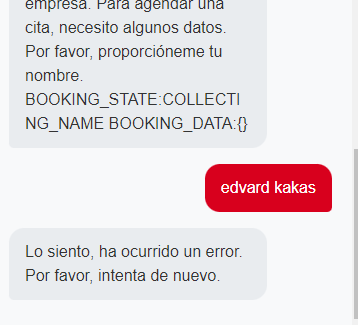
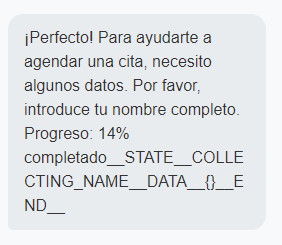
Agent query: Can you try starting a booking flow and verify if the progress indicator and state data are no longer visible in the messages?

diff --git a/chatbot.py b/chatbot.py
@@ -57,18 +57,9 @@ class BookingSession:
     def __init__(self):
         self.state = 'INITIAL'
         self.data = {}
-        self.total_steps = 7
-        self.current_step = 0
         
-    def get_progress(self):
-        """Calculate and format progress percentage"""
-        if self.state == 'INITIAL':
-            return ""
-        progress = (BOOKING_STATES[self.state] / self.total_steps) * 100
-        return f"\n\nProgreso: {progress:.0f}% completado"
-    
     def format_state_data(self):
-        """Format state data for storage in conversation"""
+        """Format state data for internal use"""
         return f"__STATE__{self.state}__DATA__{json.dumps(self.data)}__END__"
     
     @staticmethod
@@ -156,40 +147,38 @@ def handle_booking_step(user_input, session):
         'time_index': "Por favor, selecciona un número válido de la lista de horarios.",
         'confirmation': "Por favor, responde 'sí' para confirmar o 'no' para cancelar."
     }
+
+    def create_response(message):
+        """Helper to create response with hidden state data"""
+        return message + session.format_state_data()
     
     if session.state == 'INITIAL':
         session.state = 'COLLECTING_NAME'
-        return (
+        return create_response(
             "¡Perfecto! Para ayudarte a agendar una cita, necesito algunos datos. "
-            "Por favor, introduce tu nombre completo." + 
-            session.get_progress() +
-            session.format_state_data()
+            "Por favor, introduce tu nombre completo."
         )
     
     elif session.state == 'COLLECTING_NAME':
         if not validate_input('name', user_input):
-            return error_messages['name'] + session.get_progress() + session.format_state_data()
+            return create_response(error_messages['name'])
         
         session.data['name'] = user_input
         session.state = 'COLLECTING_EMAIL'
-        return (
+        return create_response(
             f"Gracias {user_input}. Ahora necesito tu correo electrónico para enviarte "
-            "la confirmación de la cita." + 
-            session.get_progress() + 
-            session.format_state_data()
+            "la confirmación de la cita."
         )
     
     elif session.state == 'COLLECTING_EMAIL':
         if not validate_input('email', user_input):
-            return error_messages['email'] + session.get_progress() + session.format_state_data()
+            return create_response(error_messages['email'])
         
         session.data['email'] = user_input
         session.state = 'COLLECTING_PHONE'
-        return (
+        return create_response(
             "Perfecto. ¿Podrías proporcionarme un número de teléfono para contactarte en caso necesario? "
-            "(Este campo es opcional, puedes escribir 'saltar' para continuar)." + 
-            session.get_progress() + 
-            session.format_state_data()
+            "(Este campo es opcional, puedes escribir 'saltar' para continuar)."
         )
     
     elif session.state == 'COLLECTING_PHONE':
@@ -197,7 +186,7 @@ def handle_booking_step(user_input, session):
             user_input = ''
             
         if not validate_input('phone', user_input):
-            return error_messages['phone'] + session.get_progress() + session.format_state_data()
+            return create_response(error_messages['phone'])
         
         session.data['phone'] = user_input
         session.state = 'SELECTING_SERVICE'
@@ -207,17 +196,15 @@ def handle_booking_step(user_input, session):
             for i, service in enumerate(SERVICES)
         )
         
-        return (
+        return create_response(
             "Gracias. ¿Qué servicio te interesa?\n\n" +
             services_text + "\n\n"
-            "Por favor, selecciona el número del servicio deseado." + 
-            session.get_progress() + 
-            session.format_state_data()
+            "Por favor, selecciona el número del servicio deseado."
         )
     
     elif session.state == 'SELECTING_SERVICE':
         if not validate_input('service_index', user_input):
-            return error_messages['service_index'] + session.get_progress() + session.format_state_data()
+            return create_response(error_messages['service_index'])
         
         service_index = int(user_input) - 1
         session.data['service'] = SERVICES[service_index]
@@ -225,10 +212,9 @@ def handle_booking_step(user_input, session):
         
         slots = get_available_slots()
         if not slots:
-            return (
+            return create_response(
                 "Lo siento, no hay fechas disponibles en los próximos días. "
-                "Por favor, intenta más tarde." + 
-                session.format_state_data()
+                "Por favor, intenta más tarde."
             )
         
         dates_text = "\n".join(
@@ -236,23 +222,21 @@ def handle_booking_step(user_input, session):
             for i, slot in enumerate(slots)
         )
         
-        return (
+        return create_response(
             f"Has seleccionado: {session.data['service']}\n\n"
             f"Estas son las fechas disponibles:\n\n{dates_text}\n\n"
-            "Por favor, selecciona el número de la fecha que prefieres." + 
-            session.get_progress() + 
-            session.format_state_data()
+            "Por favor, selecciona el número de la fecha que prefieres."
         )
     
     elif session.state == 'SELECTING_DATE':
         if not validate_input('date_index', user_input):
-            return error_messages['date_index'] + session.get_progress() + session.format_state_data()
+            return create_response(error_messages['date_index'])
         
         slots = get_available_slots()
         date_index = int(user_input) - 1
         
         if date_index < 0 or date_index >= len(slots):
-            return error_messages['date_index'] + session.get_progress() + session.format_state_data()
+            return create_response(error_messages['date_index'])
         
         selected_date = slots[date_index]
         session.data['date'] = selected_date['date']
@@ -264,17 +248,15 @@ def handle_booking_step(user_input, session):
             for i, time in enumerate(selected_date['times'])
         )
         
-        return (
+        return create_response(
             f"Has seleccionado el {selected_date['formatted_date']}.\n\n"
             f"Estos son los horarios disponibles:\n\n{times_text}\n\n"
-            "Por favor, selecciona el número del horario que prefieres." + 
-            session.get_progress() + 
-            session.format_state_data()
+            "Por favor, selecciona el número del horario que prefieres."
         )
     
     elif session.state == 'SELECTING_TIME':
         if not validate_input('time_index', user_input):
-            return error_messages['time_index'] + session.get_progress() + session.format_state_data()
+            return create_response(error_messages['time_index'])
         
         slots = get_available_slots()
         selected_slot = next(
@@ -284,7 +266,7 @@ def handle_booking_step(user_input, session):
         
         time_index = int(user_input) - 1
         if time_index < 0 or time_index >= len(selected_slot['times']):
-            return error_messages['time_index'] + session.get_progress() + session.format_state_data()
+            return create_response(error_messages['time_index'])
         
         session.data['time'] = selected_slot['times'][time_index]
         session.state = 'CONFIRMATION'
@@ -295,7 +277,7 @@ def handle_booking_step(user_input, session):
             else "Teléfono: No proporcionado\n"
         )
         
-        return (
+        return create_response(
             "Por favor, revisa los detalles de tu cita:\n\n"
             f"Nombre: {session.data['name']}\n"
             f"Email: {session.data['email']}\n" +
@@ -303,14 +285,12 @@ def handle_booking_step(user_input, session):
             f"Fecha: {session.data['formatted_date']}\n"
             f"Hora: {session.data['time']}\n"
             f"Servicio: {session.data['service']}\n\n"
-            "¿Confirmas esta cita? (Responde 'sí' para confirmar o 'no' para cancelar)" + 
-            session.get_progress() + 
-            session.format_state_data()
+            "¿Confirmas esta cita? (Responde 'sí' para confirmar o 'no' para cancelar)"
         )
     
     elif session.state == 'CONFIRMATION':
         if not validate_input('confirmation', user_input):
-            return error_messages['confirmation'] + session.get_progress() + session.format_state_data()
+            return create_response(error_messages['confirmation'])
         
         if user_input.lower() in ['si', 'sí', 'yes']:
             try:
@@ -329,30 +309,26 @@ def handle_booking_step(user_input, session):
                 send_appointment_confirmation(appointment)
                 schedule_reminder_email(appointment)
                 
-                return (
+                return create_response(
                     "¡Tu cita ha sido confirmada! Te hemos enviado un correo electrónico "
                     "con los detalles. ¿Hay algo más en lo que pueda ayudarte?" +
-                    "\n\nBOOKING_COMPLETE" +
-                    session.format_state_data()
+                    "\n\nBOOKING_COMPLETE"
                 )
             except Exception as e:
                 logger.error(f"Error creating appointment: {str(e)}")
-                return (
+                return create_response(
                     "Lo siento, ha ocurrido un error al procesar tu cita. "
-                    "Por favor, intenta de nuevo más tarde." +
-                    session.format_state_data()
+                    "Por favor, intenta de nuevo más tarde."
                 )
         else:
-            return (
+            return create_response(
                 "De acuerdo, he cancelado la reserva. "
                 "¿Hay algo más en lo que pueda ayudarte?" +
-                "\n\nBOOKING_CANCELLED" +
-                session.format_state_data()
+                "\n\nBOOKING_CANCELLED"
             )
     
-    return (
-        "Lo siento, ha ocurrido un error. Por favor, intenta de nuevo." +
-        session.format_state_data()
+    return create_response(
+        "Lo siento, ha ocurrido un error. Por favor, intenta de nuevo."
     )
 
 def generate_response(user_message, conversation_history=None):
